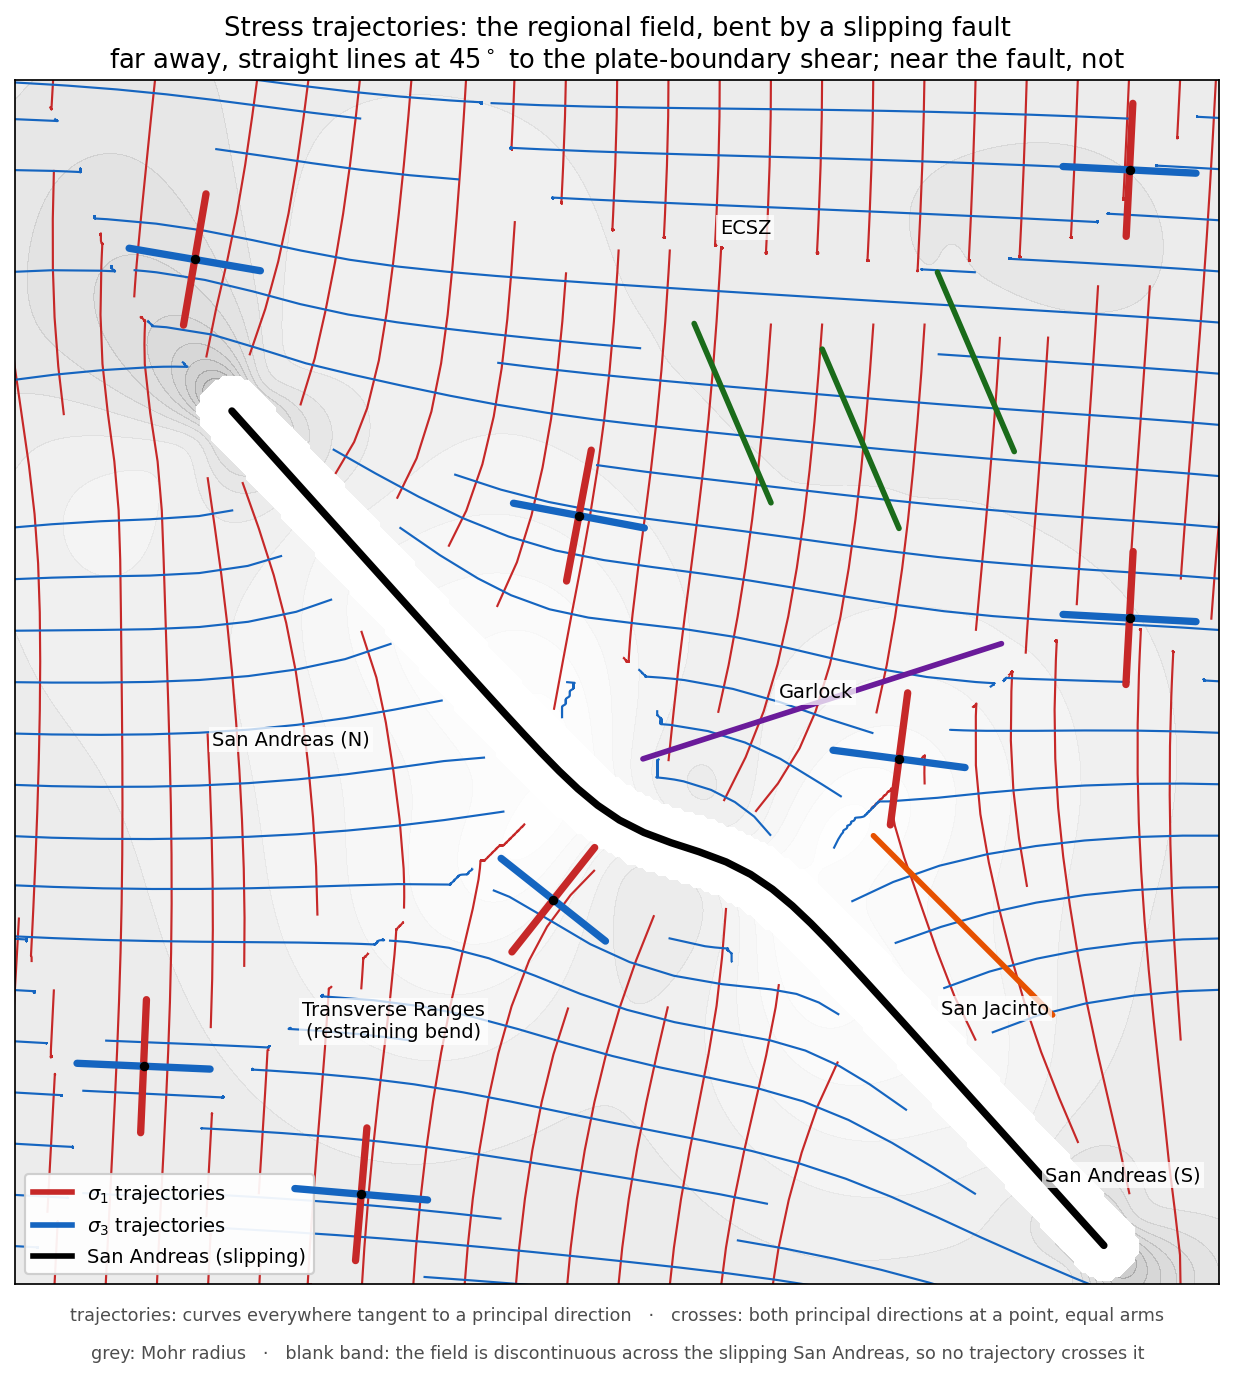
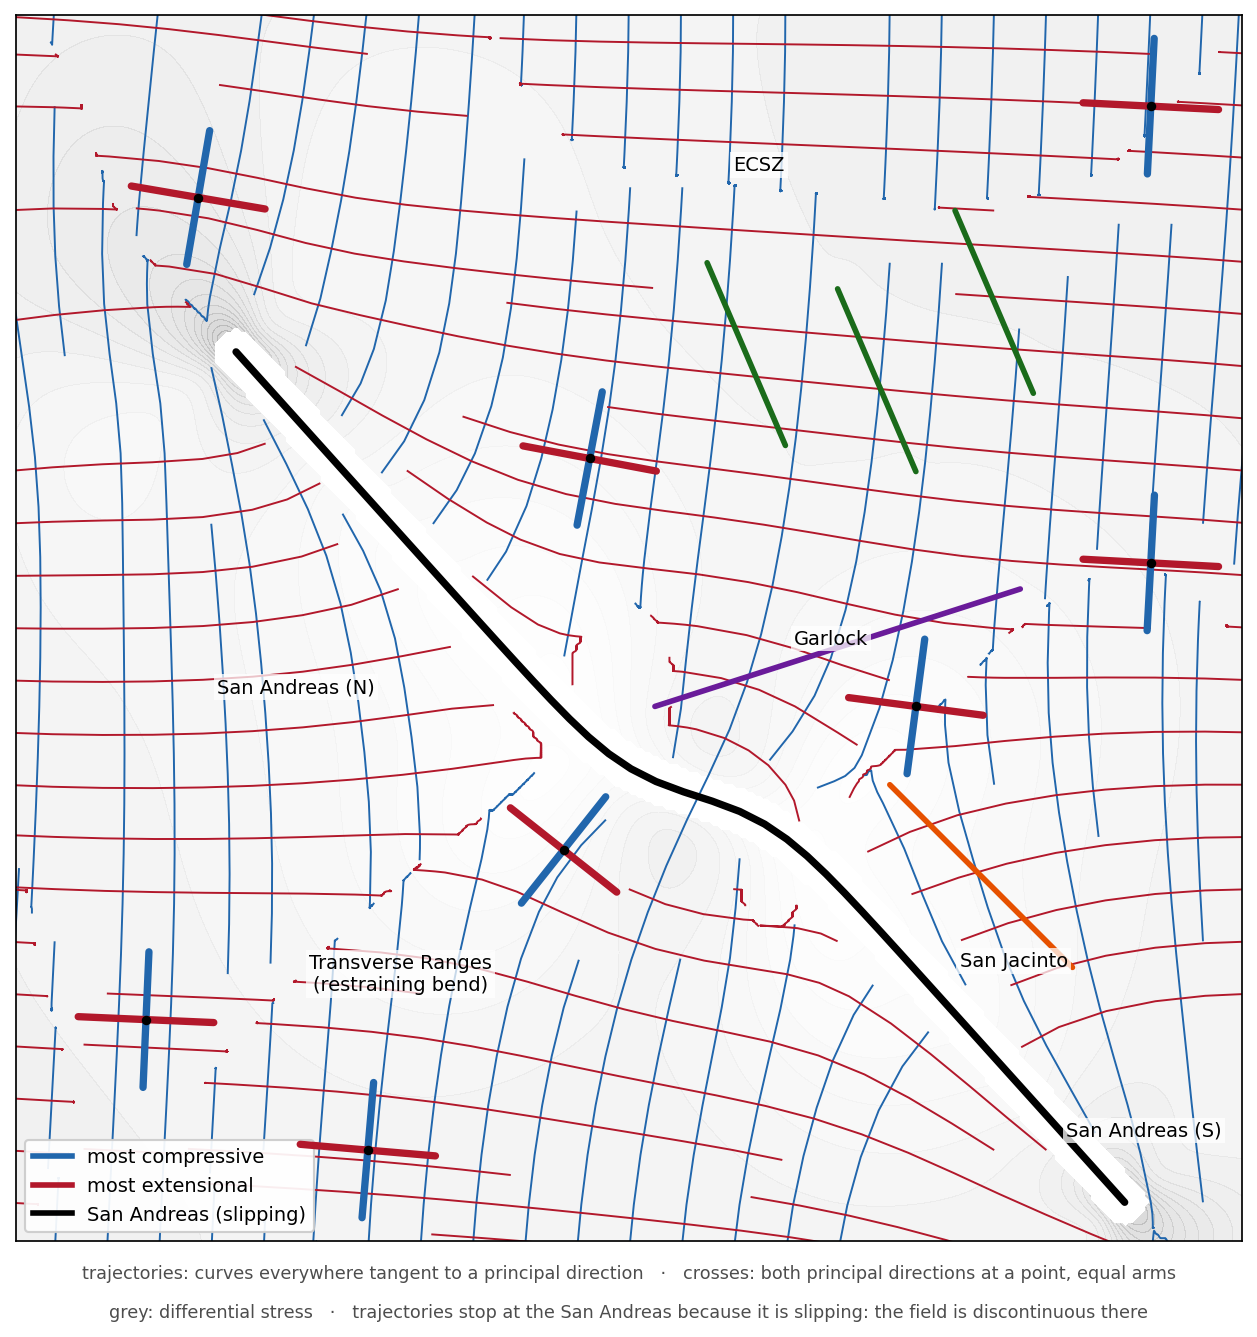
california_trajectories: follow the library's conventions
Aligned with visualisation/glyphs.py, which Louis pointed out exists
(on feature/stress-glyphs; NOT merged to main, so this script keeps
its own integrator for now and should switch when that branch lands):

- colours were inverted. glyphs.py is "blue compressive, red tensile,
  matching the RdBu_r field convention"; this had red as the
  most-compressive direction. Now blue compressive, red extensional.
- named "most compressive" / "most extensional" rather than sigma_1 /
  sigma_3, the course convention, which avoids the sign-convention
  trap entirely.
- "Mohr radius" is not a term used in the lectures; the shading is now
  the differential stress (twice the radius), which the decks do teach.
- the blank band was wide enough to read as a damage zone. It is only
  the smoothing length, so it is now ~2 sigma of the Gaussian applied
  to the double-angle field, and the caption says what it means.

Changed region(s): [[0.0, 0.0, 1.0, 1.0]]

diff --git a/docs/advanced/figures/fault-examples/california_trajectories.py b/docs/advanced/figures/fault-examples/california_trajectories.py
@@ -31,6 +31,13 @@ Trajectories are stopped before they reach a fault: the field is
 genuinely discontinuous across a slipping surface, so drawing through
 it would be a lie.
 
+underworld3 gained a general version of this after these figures were
+made -- visualisation/glyphs.py: direction_trajectories (evenly spaced,
+Jobard & Lehmann placement) and principal_stress_glyphs. It is on
+feature/stress-glyphs and NOT yet merged to main, so this script keeps
+its own integrator; the colours and terminology here follow it, and
+this should be switched over once that branch lands.
+
 Run:  python california_trajectories.py     (~1 solve; then cached)
 """
 import os
@@ -90,8 +97,10 @@ MINORS = {
 COLOUR = {"Garlock": "#6a1b9a", "E1": "#1a6b1a", "E2": "#1a6b1a",
           "E3": "#1a6b1a", "SJF": "#e65100"}
 
-C_S1 = "#c62828"      # most-compressive principal direction
-C_S3 = "#1565c0"      # least-compressive
+C_COMP = "#2166ac"    # most-compressive direction  (blue)
+C_EXT = "#b2182b"     # most-extensional direction (red)
+# Colours follow underworld3 visualisation/glyphs.py: "blue compressive,
+# red tensile, matching the RdBu_r field convention".
 
 
 # --------------------------------------------------------------- solve
@@ -159,7 +168,7 @@ sxx, syy, sxy = -sxx, -syy, -sxy
 # double angle of the most-compressive direction, per cell
 two_theta = np.arctan2(2.0 * sxy, sxx - syy)
 c2, s2 = np.cos(two_theta), np.sin(two_theta)
-tau_max = np.hypot(0.5 * (sxx - syy), sxy)      # Mohr radius, per cell
+diff_stress = 2.0 * np.hypot(0.5 * (sxx - syy), sxy)   # sigma_1 - sigma_3
 
 # ------------------------------------------------------- director grid
 NG = 320
@@ -169,7 +178,7 @@ GX, GY = np.meshgrid(gx, gy)
 grid = np.column_stack([GX.ravel(), GY.ravel()])
 C2 = griddata(cent, c2, grid, method="linear").reshape(NG, NG)
 S2 = griddata(cent, s2, grid, method="linear").reshape(NG, NG)
-TAU = griddata(cent, tau_max, grid, method="linear").reshape(NG, NG)
+TAU = griddata(cent, diff_stress, grid, method="linear").reshape(NG, NG)
 
 
 from scipy.ndimage import gaussian_filter
@@ -209,7 +218,11 @@ def dist_field(GX, GY):
 
 
 DIST = dist_field(GX, GY)
-KEEPOUT = 0.026
+# The blank band is NOT a damage zone: it is the smoothing length. The
+# double-angle field is Gaussian-smoothed over ~3 grid cells, which
+# blurs across the fault, so nothing is drawn within ~2 sigma of the
+# one surface that is actually slipping.
+KEEPOUT = 0.016
 MASK = DIST < KEEPOUT
 
 # A director field has no global sign, which is why streamplot cannot be
@@ -237,13 +250,13 @@ ax.set_xticks([])
 ax.set_yticks([])
 
 ax.contourf(GX, GY, np.ma.array(TAU, mask=MASK), levels=18,
-            cmap="Greys", alpha=0.22, zorder=0)
+            cmap="Greys", alpha=0.16, zorder=0)
 
-for theta, ref, col in ((THETA, REF1, C_S1),
+for theta, ref, col in ((THETA, REF1, C_COMP),
                         (THETA + 0.5 * np.pi,
-                         np.array([-REF1[1], REF1[0]]), C_S3)):
+                         np.array([-REF1[1], REF1[0]]), C_EXT)):
     vx, vy = vector_field(theta, ref)
-    ax.streamplot(gx, gy, vx, vy, density=0.85, color=col, linewidth=1.0,
+    ax.streamplot(gx, gy, vx, vy, density=0.85, color=col, linewidth=0.9,
                   arrowsize=0, minlength=0.18, zorder=2)
 
 ax.plot(SAF_PTS[:, 0], SAF_PTS[:, 1], "-", color="black", lw=3.4,
@@ -264,7 +277,7 @@ def direction_at(x, y, family):
 ANCHORS = [(0.13, 0.20), (0.17, 0.83), (0.90, 0.90), (0.90, 0.55),
            (0.45, 0.33), (0.47, 0.63), (0.72, 0.44), (0.30, 0.10)]
 for a in ANCHORS:
-    for family, col in ((0, C_S1), (1, C_S3)):
+    for family, col in ((0, C_COMP), (1, C_EXT)):
         d = direction_at(*a, family)
         L = 0.052
         ax.plot([a[0] - L * d[0], a[0] + L * d[0]],
@@ -283,23 +296,20 @@ for xy, s, ha in (((0.245, 0.455), "San Andreas (N)", "center"),
             zorder=8,
             bbox=dict(fc="white", ec="none", alpha=0.75, pad=1.5))
 
-ax.plot([], [], "-", color=C_S1, lw=2.6, label=r"$\sigma_1$ trajectories")
-ax.plot([], [], "-", color=C_S3, lw=2.6, label=r"$\sigma_3$ trajectories")
+ax.plot([], [], "-", color=C_COMP, lw=2.6, label="most compressive")
+ax.plot([], [], "-", color=C_EXT, lw=2.6, label="most extensional")
 ax.plot([], [], "-", color="black", lw=2.6, label="San Andreas (slipping)")
 ax.legend(loc="lower left", fontsize=9, framealpha=0.93)
 
-ax.set_title("Stress trajectories: the regional field, bent by a "
-             "slipping fault\n"
-             r"far away, straight lines at $45^\circ$ to the "
-             "plate-boundary shear; near the fault, not",
-             fontsize=12)
+# No figure title: the slide it lives on carries one, and the space is
+# better given to the map.
 ax.text(0.5, -0.030,
         "trajectories: curves everywhere tangent to a principal direction   "
         "\u00b7   crosses: both principal directions at a point, equal arms",
         transform=ax.transAxes, fontsize=8.2, color="0.3", ha="center")
 ax.text(0.5, -0.062,
-        "grey: Mohr radius   \u00b7   blank band: the field is discontinuous "
-        "across the slipping San Andreas, so no trajectory crosses it",
+        "grey: differential stress   \u00b7   trajectories stop at the "
+        "San Andreas because it is slipping: the field is discontinuous there",
         transform=ax.transAxes, fontsize=8.2, color="0.3", ha="center")
 
 fig.tight_layout()
